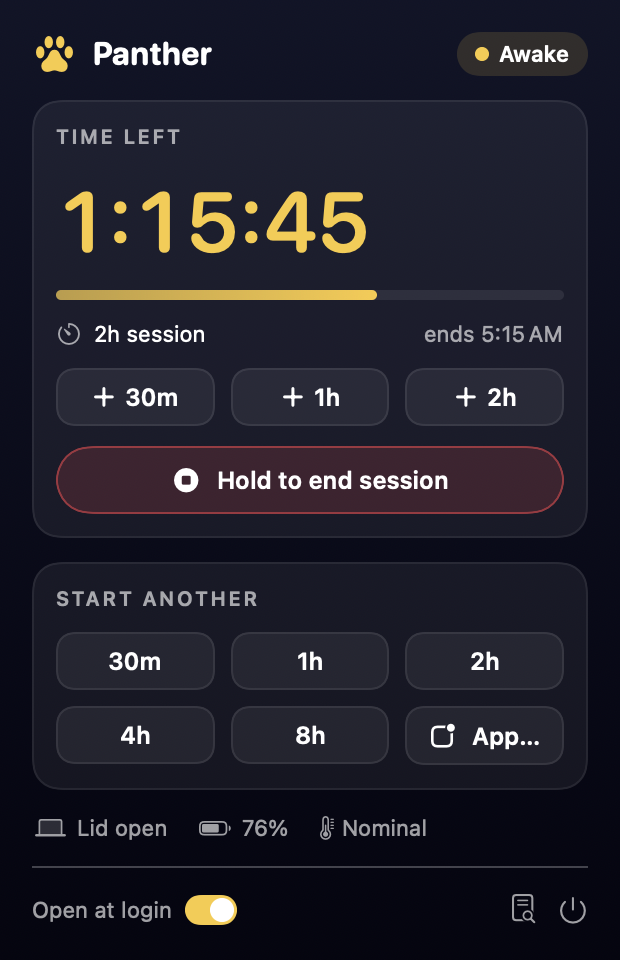
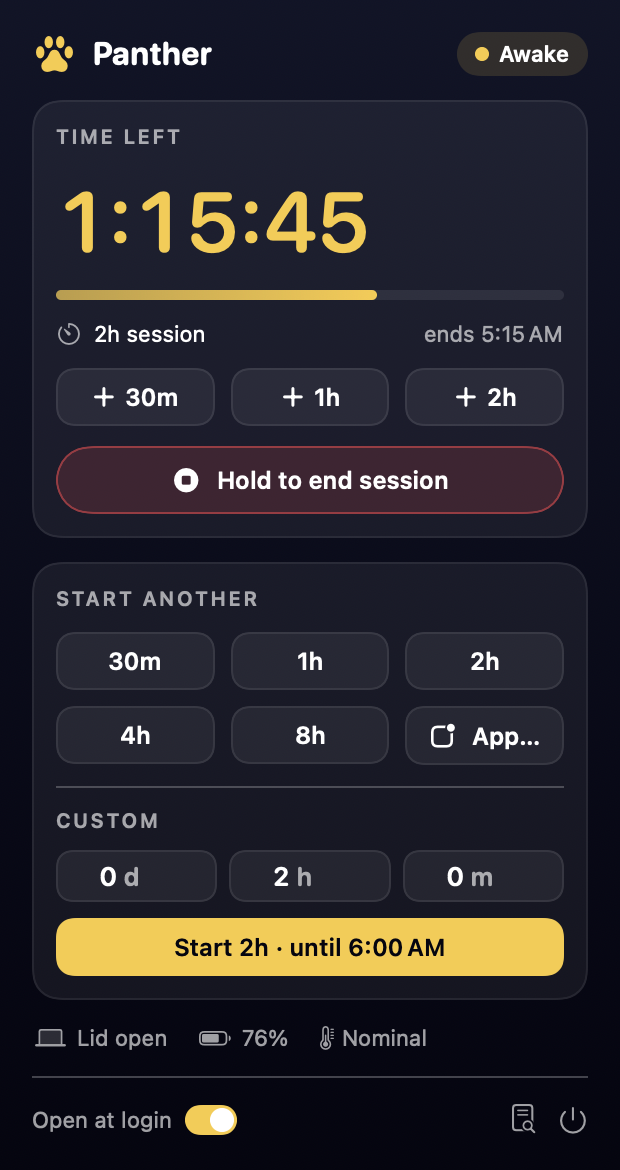
feat: custom session length up to 3 days, panel fits its content
- raise the default session cap from 12 h to 3 days (hard ceiling 7 days);
  battery and heat rules still apply throughout
- panel: Custom row (days/hours/minutes with steppers) and a start button
  that shows when the session will end
- fix the gap under the menu bar: MenuBarExtra windows don't shrink when
  content gets smaller, so refit the window to its content and pin it top
- remove the focus ring on the first preset
- build.sh signs the app outside iCloud-synced folders
- CLI shows the weekday for end times that aren't today

diff --git a/Sources/PantherUI/CustomDuration.swift b/Sources/PantherUI/CustomDuration.swift
@@ -1,0 +1,106 @@
+import Foundation
+import Observation
+import PantherCore
+import SwiftUI
+
+/// Days / hours / minutes for a custom session. @Observable instead of @State (no SwiftUI macro
+/// plugin in the Command Line Tools).
+@MainActor
+@Observable
+final class CustomDuration {
+    static let maxDays = 7
+    var days = 0 { didSet { if days != Self.clamp(days, 0, Self.maxDays) { days = Self.clamp(days, 0, Self.maxDays) } } }
+    var hours = 2 { didSet { if hours != Self.clamp(hours, 0, 23) { hours = Self.clamp(hours, 0, 23) } } }
+    var minutes = 0 { didSet { if minutes != Self.clamp(minutes, 0, 59) { minutes = Self.clamp(minutes, 0, 59) } } }
+
+    var seconds: TimeInterval { TimeInterval(days * 86_400 + hours * 3_600 + minutes * 60) }
+
+    /// Why it can't start yet, or nil when it can.
+    func problem(maxHold: TimeInterval) -> String? {
+        if seconds < Durations.minimum { return "Set at least 1 minute" }
+        if seconds > maxHold { return "The longest session is \(Durations.format(maxHold))" }
+        return nil
+    }
+
+    private static func clamp(_ v: Int, _ lo: Int, _ hi: Int) -> Int { min(max(v, lo), hi) }
+}
+
+/// The "Custom" row: three small number fields with steppers, then a full-width start button
+/// that says exactly what will happen.
+struct CustomDurationRow: View {
+    let model: AppModel
+
+    private var custom: CustomDuration { model.custom }
+    private var maxHold: TimeInterval { model.status?.limits.maxHold ?? Limits.standard.maxHold }
+
+    var body: some View {
+        VStack(alignment: .leading, spacing: 8) {
+            Text("CUSTOM")
+                .font(.system(size: 10, weight: .semibold)).tracking(1.2)
+                .foregroundStyle(Theme.secondaryText)
+            HStack(spacing: 6) {
+                UnitField(value: Binding(get: { custom.days }, set: { custom.days = $0 }),
+                          unit: "d", range: 0...CustomDuration.maxDays, preview: model.isPreview)
+                UnitField(value: Binding(get: { custom.hours }, set: { custom.hours = $0 }),
+                          unit: "h", range: 0...23, preview: model.isPreview)
+                UnitField(value: Binding(get: { custom.minutes }, set: { custom.minutes = $0 }),
+                          unit: "m", range: 0...59, preview: model.isPreview)
+            }
+            let problem = custom.problem(maxHold: maxHold)
+            Button {
+                model.start(for: custom.seconds)
+            } label: {
+                Text(problem ?? "Start \(Durations.format(custom.seconds)) · until \(Self.endText(custom.seconds, now: model.now))")
+                    .font(.system(size: 12, weight: .semibold))
+                    .lineLimit(1)
+                    .frame(maxWidth: .infinity)
+                    .padding(.vertical, 7)
+                    .foregroundStyle(problem == nil ? Theme.deepNight : Theme.secondaryText)
+                    .background(problem == nil ? Theme.gold : Theme.card, in: RoundedRectangle(cornerRadius: 9))
+                    .contentShape(RoundedRectangle(cornerRadius: 9))
+            }
+            .buttonStyle(.plain)
+            .disabled(problem != nil)
+        }
+    }
+
+    /// "5:45 PM" today, "Thu 5:45 PM" within a week.
+    static func endText(_ seconds: TimeInterval, now: Date) -> String {
+        let end = now.addingTimeInterval(seconds)
+        if Calendar.current.isDate(end, inSameDayAs: now) { return end.formatted(date: .omitted, time: .shortened) }
+        return end.formatted(.dateTime.weekday(.abbreviated).hour().minute())
+    }
+}
+
+/// One number + unit + stepper, styled as a small card.
+private struct UnitField: View {
+    let value: Binding<Int>
+    let unit: String
+    let range: ClosedRange<Int>
+    let preview: Bool
+
+    var body: some View {
+        HStack(spacing: 3) {
+            if preview {
+                // ImageRenderer can't draw AppKit text fields or steppers: plain text for snapshots.
+                Text("\(value.wrappedValue)").frame(width: 24, alignment: .trailing)
+            } else {
+                TextField("", value: value, format: .number)
+                    .textFieldStyle(.plain)
+                    .multilineTextAlignment(.trailing)
+                    .frame(width: 24)
+            }
+            Text(unit).foregroundStyle(Theme.secondaryText)
+            Spacer(minLength: 0)
+            if !preview {
+                Stepper("", value: value, in: range).labelsHidden().controlSize(.mini)
+            }
+        }
+        .font(.system(size: 13, weight: .semibold, design: .rounded).monospacedDigit())
+        .padding(.horizontal, 7)
+        .padding(.vertical, 5)
+        .frame(maxWidth: .infinity)
+        .background(Theme.card, in: RoundedRectangle(cornerRadius: 8))
+        .overlay(RoundedRectangle(cornerRadius: 8).strokeBorder(Color.white.opacity(0.08)))
+    }
+}

diff --git a/Sources/PantherUI/PanelView.swift b/Sources/PantherUI/PanelView.swift
@@ -23,10 +23,26 @@ public struct PanelView: View {
         }
         .padding(16)
         .frame(width: 310)
+        .fixedSize(horizontal: false, vertical: true)
+        // Pinned to the top and filling the window, so there's never a gap under the menu bar.
+        .frame(maxHeight: .infinity, alignment: .top)
         .background(Theme.background)
         .foregroundStyle(.white)
         .environment(\.colorScheme, .dark)
+        .focusEffectDisabled()   // no blue focus ring on the first button
+        .background(WindowFitter(token: layoutToken))
         .onAppear { model.refresh() }
+    }
+
+    /// Changes whenever the panel's height can change, so the window is refitted.
+    private var layoutToken: Int {
+        var hasher = Hasher()
+        hasher.combine(model.isActive)
+        hasher.combine(model.holds.count)
+        hasher.combine(model.isCountingDown)
+        hasher.combine(problem)
+        hasher.combine(model.status == nil)
+        return hasher.finalize()
     }
 
     private var header: some View {
@@ -138,12 +154,14 @@ private struct StartCard: View {
                 .foregroundStyle(Theme.secondaryText)
             LazyVGrid(columns: Array(repeating: GridItem(.flexible(), spacing: 8), count: 3), spacing: 8) {
                 ForEach(presets, id: \.1) { preset in
-                    ChipButton(title: preset.0, prominent: !model.isActive && preset.1 == 3_600) {
+                    ChipButton(title: preset.0) {
                         model.start(for: preset.1)
                     }
                 }
                 AppPicker(model: model)
             }
+            Divider().overlay(Color.white.opacity(0.06))
+            CustomDurationRow(model: model)
         }
     }
 }

diff --git a/Sources/PantherUI/WindowFitter.swift b/Sources/PantherUI/WindowFitter.swift
@@ -1,0 +1,33 @@
+import AppKit
+import SwiftUI
+
+/// MenuBarExtra(.window) sizes its panel once and doesn't shrink it when the content gets smaller
+/// (for example after a session ends while the panel is open), leaving the content floating in an
+/// oversized window. This resizes the window to fit its content, keeping the top edge under the
+/// menu bar. `token` should change whenever the layout's height can change.
+struct WindowFitter: NSViewRepresentable {
+    let token: Int
+
+    final class Coordinator { var lastToken: Int? }
+
+    func makeCoordinator() -> Coordinator { Coordinator() }
+    func makeNSView(context: Context) -> NSView { NSView() }
+
+    func updateNSView(_ view: NSView, context: Context) {
+        guard context.coordinator.lastToken != token else { return }
+        context.coordinator.lastToken = token
+        // After this layout pass, so fittingSize reflects the new content.
+        DispatchQueue.main.async { [weak view] in
+            guard let window = view?.window, let content = window.contentView else { return }
+            let fit = content.fittingSize
+            guard fit.height > 1 else { return }
+            let target = window.frameRect(forContentRect: NSRect(origin: .zero, size: fit)).size
+            guard abs(window.frame.height - target.height) > 0.5 else { return }
+            var frame = window.frame
+            let top = frame.maxY
+            frame.size.height = target.height
+            frame.origin.y = top - target.height
+            window.setFrame(frame, display: true)
+        }
+    }
+}

diff --git a/Tests/PantherCoreTests/HoldControllerTests.swift b/Tests/PantherCoreTests/HoldControllerTests.swift
@@ -103,11 +103,13 @@ struct HoldControllerLifecycleTests {
 @MainActor
 @Suite("Hold controller: requests and limits")
 struct HoldControllerRequestTests {
-    @Test("Timed sessions must be between 1 minute and the max")
-    func timedLimits() {
+    @Test("Timed sessions must be between 1 minute and the max (3 days)")
+    func timedLimits() throws {
         let w = World()
         #expect(throws: PantherError.self) { try w.controller.start(.timed(duration: 30, label: "t")) }
-        #expect(throws: PantherError.self) { try w.controller.start(.timed(duration: 13 * 3_600, label: "t")) }
+        #expect(throws: PantherError.self) { try w.controller.start(.timed(duration: 4 * 86_400, label: "t")) }
+        let twoDays = try w.controller.start(.timed(duration: 2 * 86_400, label: "2 days"))
+        #expect(twoDays.endsAt.timeIntervalSince(twoDays.startedAt) == 2 * 86_400)
     }
 
     @Test("A process hold needs a running process and defaults to the run cap")
@@ -127,7 +129,7 @@ struct HoldControllerRequestTests {
         let hold = try w.controller.start(.timed(duration: 3_600, label: "t"))
         let longer = try w.controller.extend(id: nil, by: 1_800)
         #expect(longer.endsAt == hold.endsAt.addingTimeInterval(1_800))
-        #expect(throws: PantherError.self) { try w.controller.extend(id: nil, by: 12 * 3_600) }
+        #expect(throws: PantherError.self) { try w.controller.extend(id: nil, by: 3 * 86_400) }
     }
 
     @Test("Starting is refused while the battery is below the floor")

diff --git a/Sources/PantherCore/Model.swift b/Sources/PantherCore/Model.swift
@@ -124,7 +124,9 @@ public struct Environment: Codable, Equatable, Sendable {
 
 /// Fixed safety limits. Raising the cap is allowed; removing it is not.
 public struct Limits: Codable, Equatable, Sendable {
-    public static let absoluteMaxHold: TimeInterval = 24 * 3600
+    /// Hard ceiling no configuration can exceed. Long sessions stay safe because the battery and
+    /// heat rules keep running the whole time.
+    public static let absoluteMaxHold: TimeInterval = 7 * 86_400
     public static let minimumBatteryFloor = 5
 
     public let maxHold: TimeInterval
@@ -134,7 +136,7 @@ public struct Limits: Codable, Equatable, Sendable {
     /// During a session on battery, Low Power Mode also turns on below this, lid open or not.
     public let lowPowerBelowPercent: Int
 
-    public init(maxHold: TimeInterval = 12 * 3600, defaultRunCap: TimeInterval = 8 * 3600,
+    public init(maxHold: TimeInterval = 3 * 86_400, defaultRunCap: TimeInterval = 8 * 3600,
                 batteryFloorPercent: Int = 10, bagHeatGrace: TimeInterval = 10 * 60,
                 lowPowerBelowPercent: Int = 30) {
         self.lowPowerBelowPercent = min(max(lowPowerBelowPercent, 0), 100)

diff --git a/Sources/panther/Output.swift b/Sources/panther/Output.swift
@@ -2,7 +2,11 @@ import Foundation
 import PantherCore
 
 enum Output {
-    static func time(_ date: Date) -> String { date.formatted(date: .omitted, time: .shortened) }
+    /// "5:45 PM" for today; "Thu 5:45 PM" otherwise (sessions can last days).
+    static func time(_ date: Date, now: Date = Date()) -> String {
+        if Calendar.current.isDate(date, inSameDayAs: now) { return date.formatted(date: .omitted, time: .shortened) }
+        return date.formatted(.dateTime.weekday(.abbreviated).hour().minute())
+    }
 
     static func describe(_ hold: Hold, now: Date) -> String {
         let remaining = Durations.format(hold.endsAt.timeIntervalSince(now))

diff --git a/Tests/PantherCoreTests/PureLogicTests.swift b/Tests/PantherCoreTests/PureLogicTests.swift
@@ -75,6 +75,9 @@ struct SafetyPolicyTests {
     func limitsClamp() {
         let limits = Limits(maxHold: 1_000_000, defaultRunCap: 999_999, batteryFloorPercent: 0, bagHeatGrace: 0)
         #expect(limits.maxHold == Limits.absoluteMaxHold)
+        #expect(Limits.absoluteMaxHold == 7 * 86_400)
+        #expect(Limits.standard.maxHold == 3 * 86_400)
+        #expect(Limits.standard.defaultRunCap == 8 * 3_600)
         #expect(limits.batteryFloorPercent == Limits.minimumBatteryFloor)
         #expect(limits.bagHeatGrace == 60)
         #expect(limits.defaultRunCap <= limits.maxHold)

diff --git a/Sources/PantherUI/AppModel.swift b/Sources/PantherUI/AppModel.swift
@@ -18,6 +18,7 @@ public final class AppModel {
 
     let loginItem = LoginItem()
     let holdToEnd = HoldToEndState()
+    let custom = CustomDuration()
     let lights = LidLights()
     private var lid: LidSensor?
     private(set) var lidClosed = false

diff --git a/README.md b/README.md
@@ -39,7 +39,7 @@ Panther is built around handling that one switch safely.
 ## Features
 
 - **Keep awake until a program finishes**: `panther run -- python train.py`. When it exits, sleep comes back.
-- **Timed sessions** from the menu bar or the CLI: 30 min to 8 h, extend any time.
+- **Timed sessions** from the menu bar or the CLI: presets from 30 min to 8 h, or **any custom length up to 3 days** (days · hours · minutes), extend any time.
 - **"Until an app quits"**: pick a running app from the panel.
 - **Live countdown in the menu bar** (`1:23:45`) at about 0.5% of one CPU core while ticking, and zero when idle.
 - **Hold for 2 seconds to end**, so you can't end a long job by accident.
@@ -126,6 +126,7 @@ It refuses to remove anything while sleep is still disabled.
 **Menu bar:** click the paw print.
 
 - Presets: 30m · 1h · 2h · 4h · 8h, or **App…** to stay awake until an app quits
+- **Custom**: set days, hours and minutes (up to 3 days); the button tells you when it will end
 - **+30m / +1h / +2h** while a session runs
 - **Hold to end** (2 seconds)
 - Open at login · log · quit (sessions keep running)
@@ -135,7 +136,7 @@ It refuses to remove anything while sleep is still disabled.
 ```bash
 panther run -- python train.py        # awake until it exits (at most 8 h)
 panther run --max 3h -- ./build.sh    # with your own cap
-panther start 2h                      # timed
+panther start 2h                      # timed (also 90m, 1h30m, 2d)
 panther extend 30m
 panther status                        # or: panther status --json
 panther end
@@ -148,7 +149,7 @@ panther doctor                        # checks it really works, not just that it
 
 | Rule | Default | Can you turn it off? |
 |---|---|---|
-| Longest session | 12 h (`run` defaults to 8 h) | raise it up to 24 h, never unlimited |
+| Longest session | 3 days (`run` defaults to 8 h; use `--max 2d` for longer) | raise it up to 7 days, never unlimited |
 | Battery floor (on battery) | ends at 10% | raise or lower, never below 5% |
 | Critical heat | ends and sleeps immediately | no |
 | Heavy heat for 10 min, lid closed, no display | ends and sleeps ("in a bag?") | no |
@@ -182,7 +183,7 @@ Full write-ups:
 
 ## Security model and known limits
 
-- Any program on the Mac can run `/usr/local/bin/panther`, just as it could run `caffeinate`. It can start sessions, but only within the caps (12 h each, 16 at most) and the safety rules. It can't touch sleep settings directly.
+- Any program on the Mac can run `/usr/local/bin/panther`, just as it could run `caffeinate`. It can start sessions, but only within the caps (3 days each, 16 at most) and the safety rules. It can't touch sleep settings directly.
 - Sessions belong to the user who started them. You can only extend or end your own (root can do all), and `run` can only be tied to your own processes.
 - The CLI and the app tell the daemon whether an external display is in use, because a root daemon has no WindowServer connection. The daemon trusts that for 2 minutes, then assumes "no display", which is the safe side.
 - Session labels are just the program name, because full command lines can hold secrets and the log is readable by every account on the Mac.

diff --git a/docs/02-architecture.md b/docs/02-architecture.md
@@ -189,7 +189,7 @@ Same principle as Insomnia (write-ahead), much less state:
 
 | Rule | Default | Can turn off? |
 |---|---|---|
-| Max session length | 12 h (`run` default cap 8 h) | raise only, never infinite |
+| Max session length | 3 days (`run` default cap 8 h); hard ceiling 7 days (raised from 12 h on 2026-11-10) | raise only, never infinite |
 | Battery floor, on battery | end at 10% | yes, but min 5% |
 | Low Power Mode | on below 30% while lid closed | yes |
 | Critical heat (`thermalState == .critical`) | end + sleep immediately | **no** |
